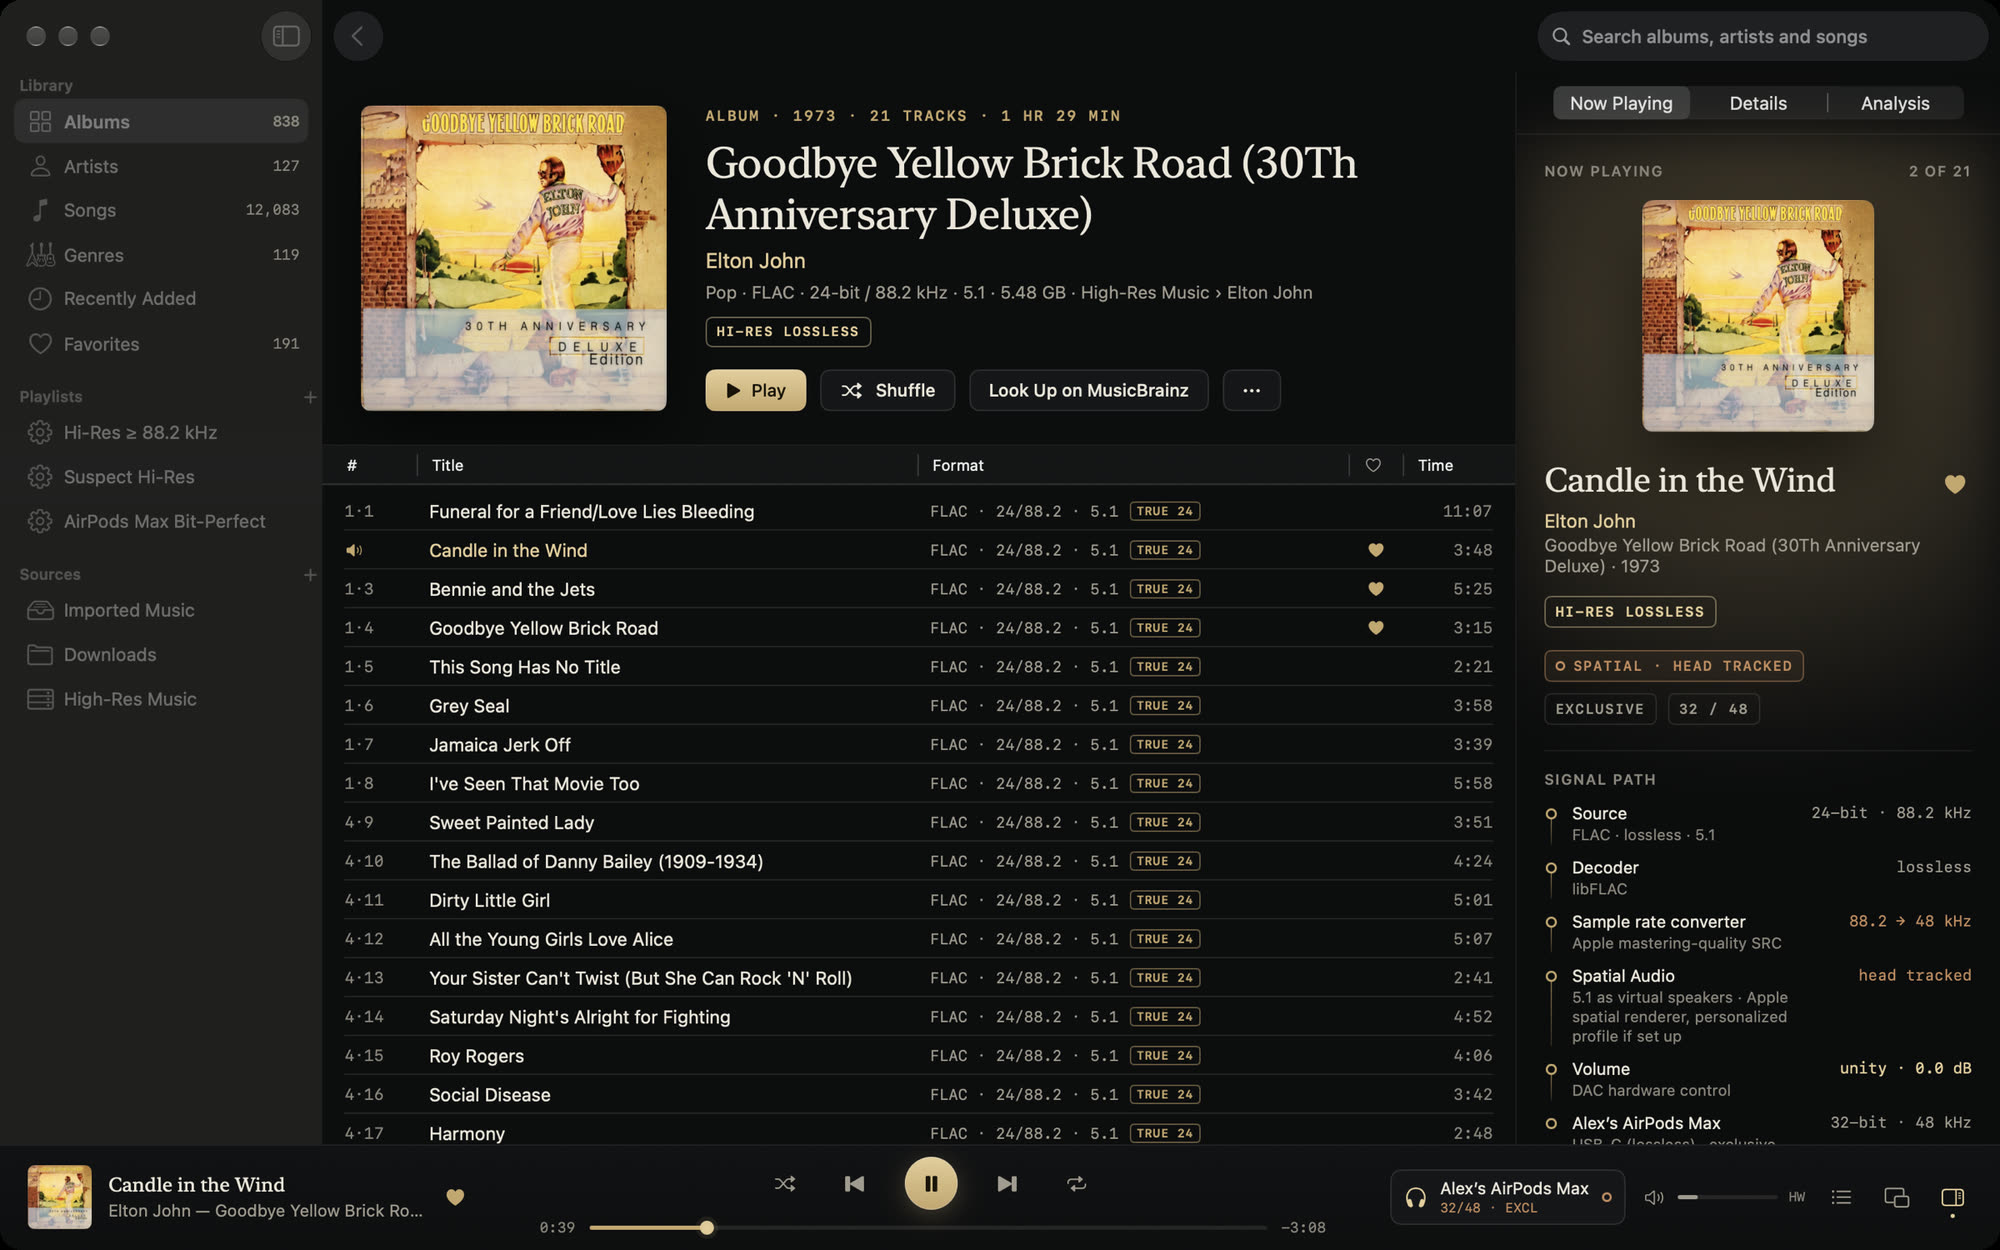
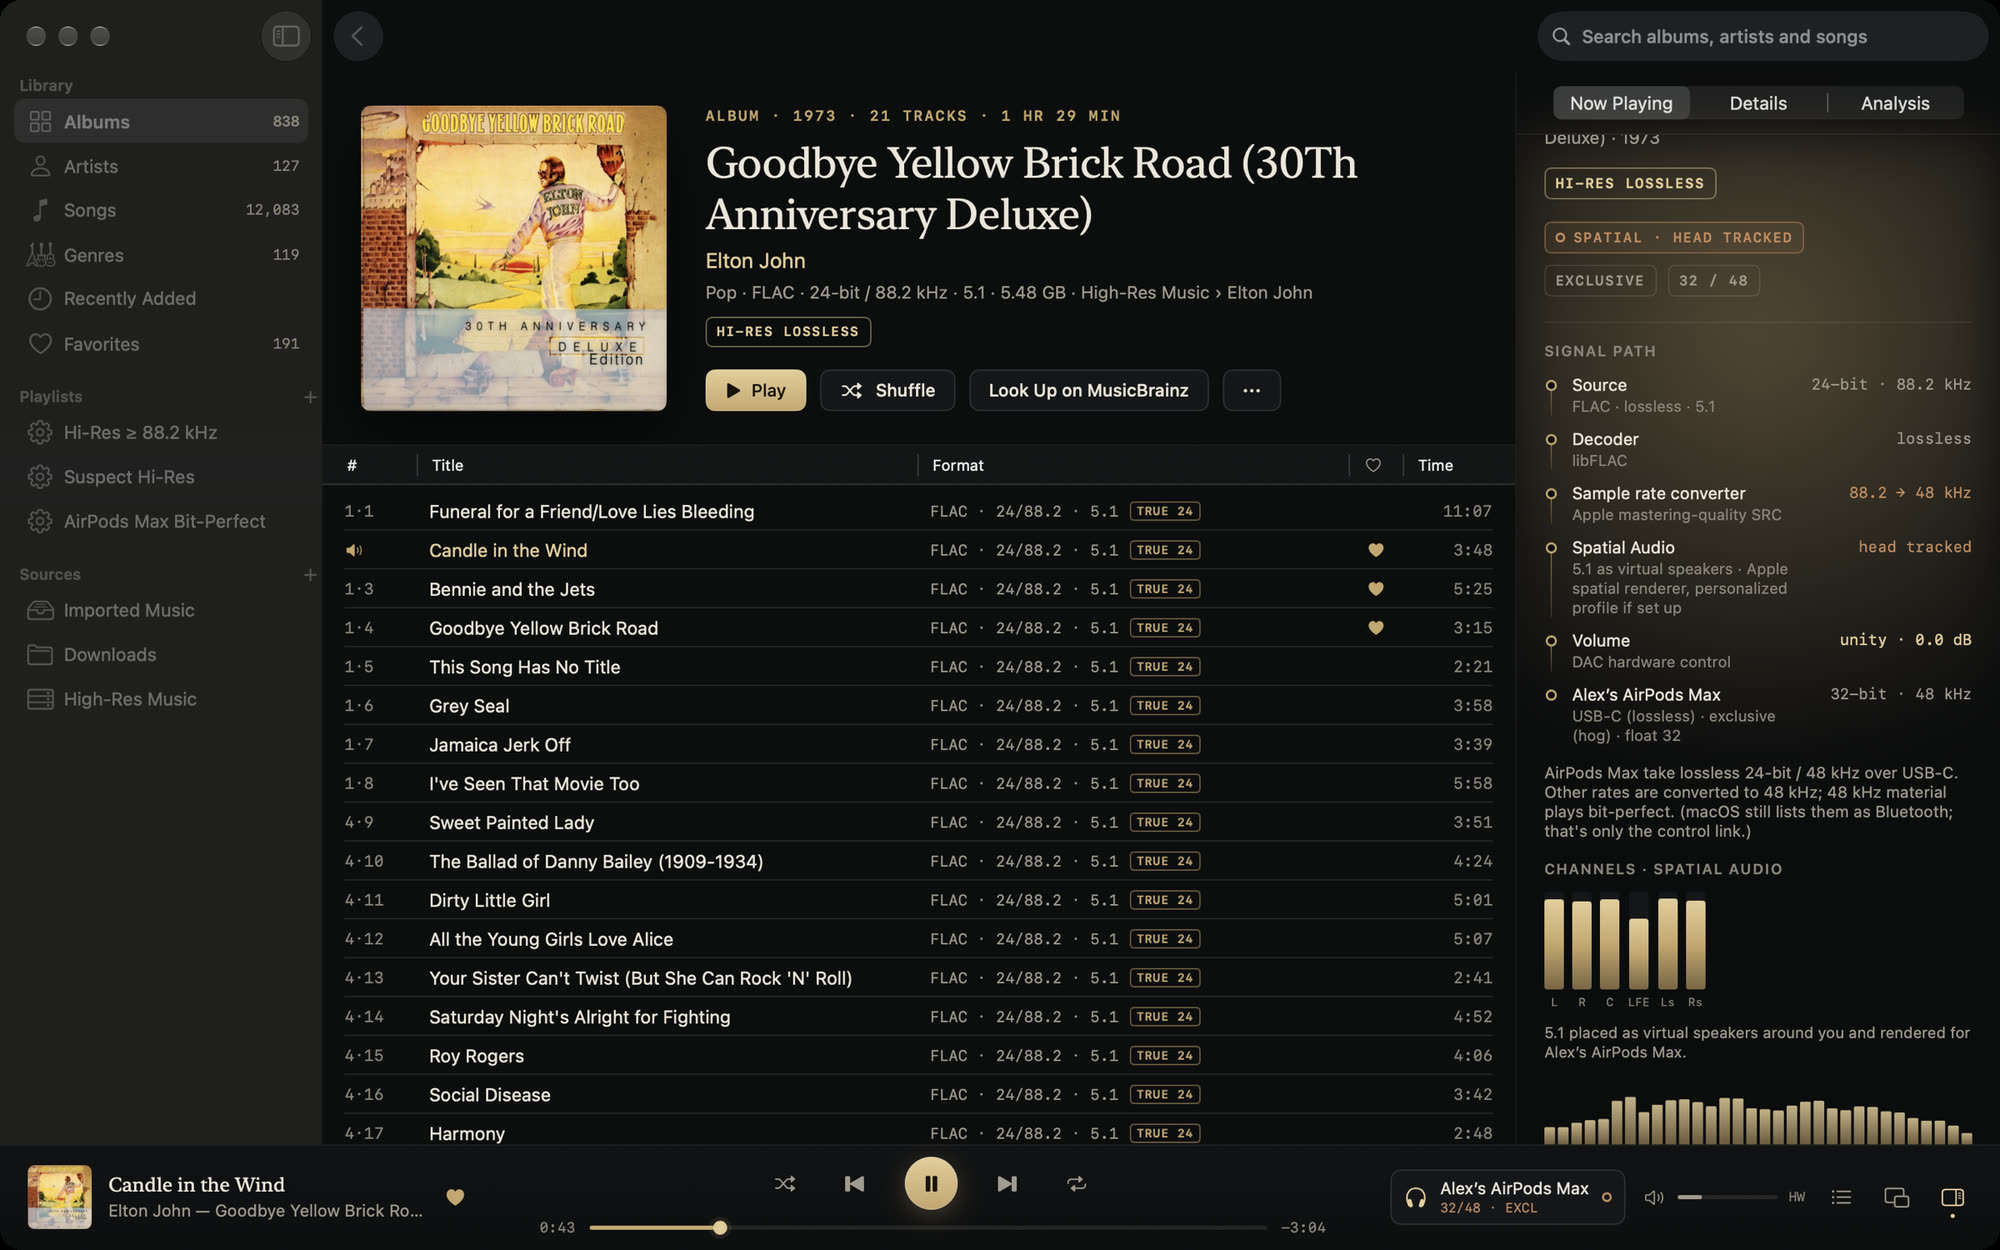
Spatial Audio screenshot scrolled to the channel meters; site alt text and captions for the new shots

diff --git a/site/index.html b/site/index.html
@@ -84,7 +84,7 @@
       <p class="fine">macOS 14.4+ · Apple silicon &amp; Intel · signed and notarized · <span class="js-version mono">GPL-3.0</span><br>Or <code>brew install --cask szeremeta1/tap/vespertine</code><br><a href="privacy.html">Privacy: nothing collected</a> · <a href="#how-its-made">How it's made</a></p>
     </div>
     <div class="hero-shot">
-      <img src="assets/spatial-audio-airpods-max.jpg" alt="Extracted SACD 5.1 tracks playing as head-tracked Spatial Audio on AirPods Max, with the signal path and a meter for each channel" width="2000" height="1250">
+      <img src="assets/spatial-audio-airpods-max.jpg" alt="A 5.1 album playing as head-tracked Spatial Audio on AirPods Max, with the signal path and a meter for each channel" width="2000" height="1250">
       <p class="caption">Extracted SACD 5.1 tracks as head-tracked Spatial Audio on AirPods Max. The signal path names the rendering and shows a meter for each channel.</p>
     </div>
     <div class="badges" aria-label="Signal path states">
@@ -156,7 +156,7 @@
             <li>Export for Spatial Audio as binaural stereo or multichannel ALAC.</li>
           </ul>
         </div>
-        <img class="shot" src="assets/spatial-audio-airpods-max-detail.jpg" alt="Dire Straits' Brothers in Arms (20th Anniversary SACD, DSD64 5.1) rendered as head-tracked Spatial Audio on AirPods Max, with a meter for each channel" loading="lazy" width="1260" height="1140">
+        <img class="shot" src="assets/spatial-audio-airpods-max-detail.jpg" alt="Elton John's Candle in the Wind (24-bit / 88.2 kHz 5.1 FLAC) rendered as head-tracked Spatial Audio on AirPods Max, with a meter for each channel" loading="lazy" width="1260" height="1140">
       </div>
 
       <div class="feature flip">
@@ -188,7 +188,7 @@
           <p class="caption" style="text-align: left; margin-top: 4px">The file in this screenshot is a deliberate fake: the trailer's own music, encoded to MP3 and upsampled to 24/192 under a made-up band name.</p>
           <p><a href="https://github.com/szeremeta1/Vespertine/blob/main/docs/ANALYSIS.md">How the analysis works →</a></p>
         </div>
-        <img class="shot" src="assets/fake-hi-res-detection-detail.jpg" alt="The Analysis tab flagging a 24/192 “remaster” as a likely lossy origin: its long-term spectrum stops at 19 kHz" loading="lazy" width="1300" height="1100">
+        <img class="shot" src="assets/fake-hi-res-detection-detail.jpg" alt="The Analysis tab flagging a 24/192 “remaster” as a likely lossy origin: its long-term spectrum stops at 16 kHz" loading="lazy" width="1300" height="1100">
       </div>
 
       <div class="feature flip">

diff --git a/site/press.html b/site/press.html
@@ -136,12 +136,12 @@
           <figcaption>Extracted SACD tracks with stereo and 5.1 versions</figcaption>
         </figure>
         <figure>
-          <a href="https://raw.githubusercontent.com/szeremeta1/Vespertine/main/docs/screenshots/spatial-audio-airpods-max.png"><img src="assets/press/shot-spatial-audio-airpods-max.jpg" alt="Extracted SACD 5.1 tracks as Spatial Audio on AirPods Max" loading="lazy" width="720" height="450"></a>
-          <figcaption>Extracted SACD 5.1 tracks (Brothers in Arms, 20th Anniversary Edition) as Spatial Audio on AirPods Max</figcaption>
+          <a href="https://raw.githubusercontent.com/szeremeta1/Vespertine/main/docs/screenshots/spatial-audio-airpods-max.png"><img src="assets/press/shot-spatial-audio-airpods-max.jpg" alt="A 5.1 album as Spatial Audio on AirPods Max" loading="lazy" width="720" height="450"></a>
+          <figcaption>A 24/88.2 5.1 album (Elton John, Goodbye Yellow Brick Road) as Spatial Audio on AirPods Max</figcaption>
         </figure>
         <figure>
-          <a href="https://raw.githubusercontent.com/szeremeta1/Vespertine/main/docs/screenshots/fake-hi-res-detection.png"><img src="assets/press/shot-fake-hi-res-detection.jpg" alt="A 24/192 “remaster” that stops at 19 kHz" loading="lazy" width="720" height="450"></a>
-          <figcaption>A 24/192 “remaster” that stops at 19 kHz (a deliberate fake: the trailer's own music, encoded to MP3 and upsampled, under a made-up band name)</figcaption>
+          <a href="https://raw.githubusercontent.com/szeremeta1/Vespertine/main/docs/screenshots/fake-hi-res-detection.png"><img src="assets/press/shot-fake-hi-res-detection.jpg" alt="A 24/192 “remaster” that stops at 16 kHz" loading="lazy" width="720" height="450"></a>
+          <figcaption>A 24/192 “remaster” that stops at 16 kHz (a deliberate fake: the trailer's own music, encoded to MP3 and upsampled, under a made-up band name)</figcaption>
         </figure>
         <figure>
           <a href="https://raw.githubusercontent.com/szeremeta1/Vespertine/main/docs/screenshots/dsd-native-dop.png"><img src="assets/press/shot-dsd-native-dop.jpg" alt="DSD64 over DoP" loading="lazy" width="720" height="450"></a>
